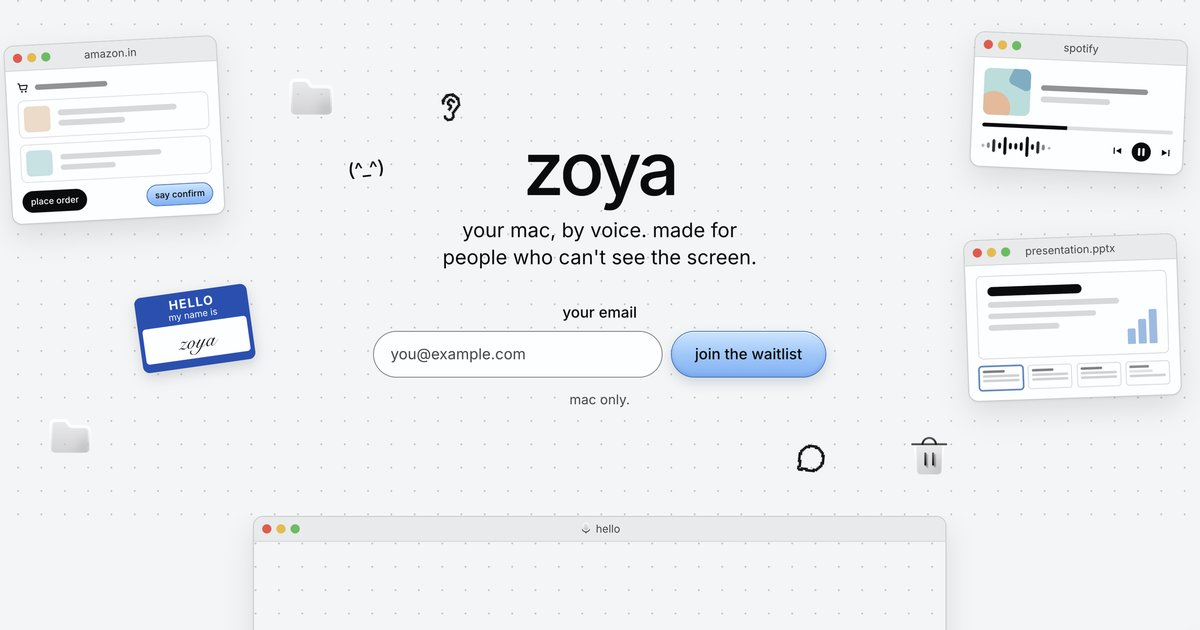
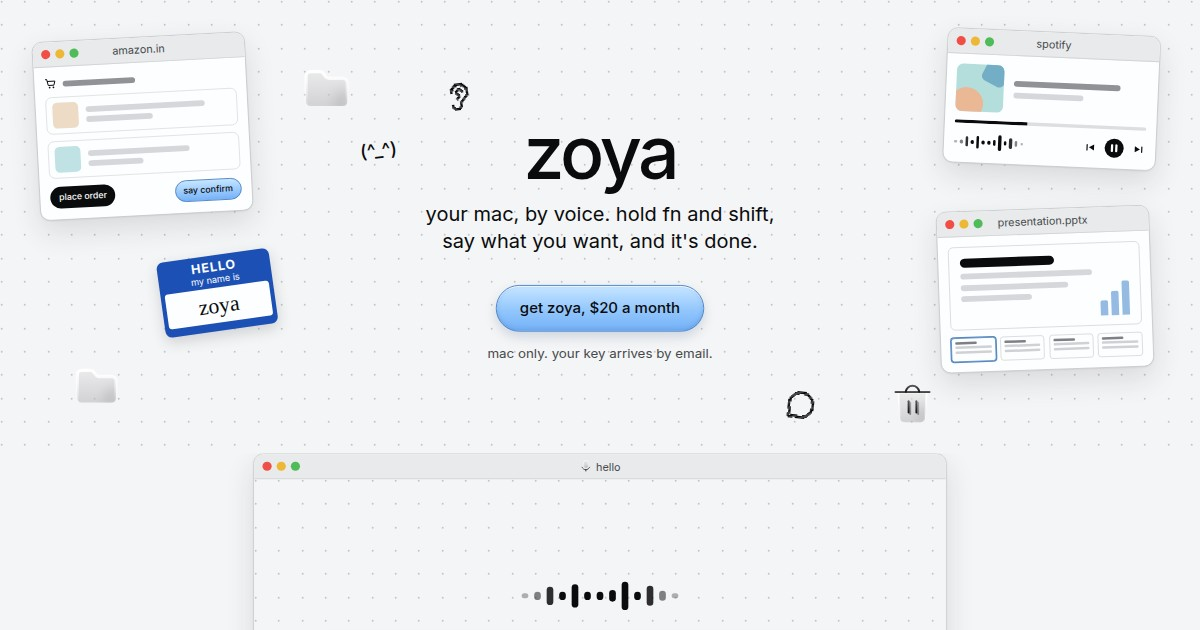
chore(site): reshoot og.jpg from the current hero with the checkout pill; its alt text now matches

diff --git a/site/app/copy.ts b/site/app/copy.ts
@@ -6,8 +6,8 @@ export const CONTACT_EMAIL = "sahuankit453@gmail.com";
 export const META = {
   title: "zoya · your mac, by voice",
   ogTitle: "zoya · your mac, by voice",
-  // Describes public/og.jpg as it is: the image still shows the pre-launch subline until it is re-shot.
-  ogImageAlt: "zoya: your mac, by voice. made for people who can't see the screen.",
+  // Describes public/og.jpg: the hero with the checkout pill.
+  ogImageAlt: "zoya: your mac, by voice. hold fn and shift, say what you want, and it's done. get zoya, $20 a month.",
   description:
     "zoya is a voice assistant for the mac. hold fn and shift, say what you want, let go, and zoya does it across your apps and websites.",
 };
